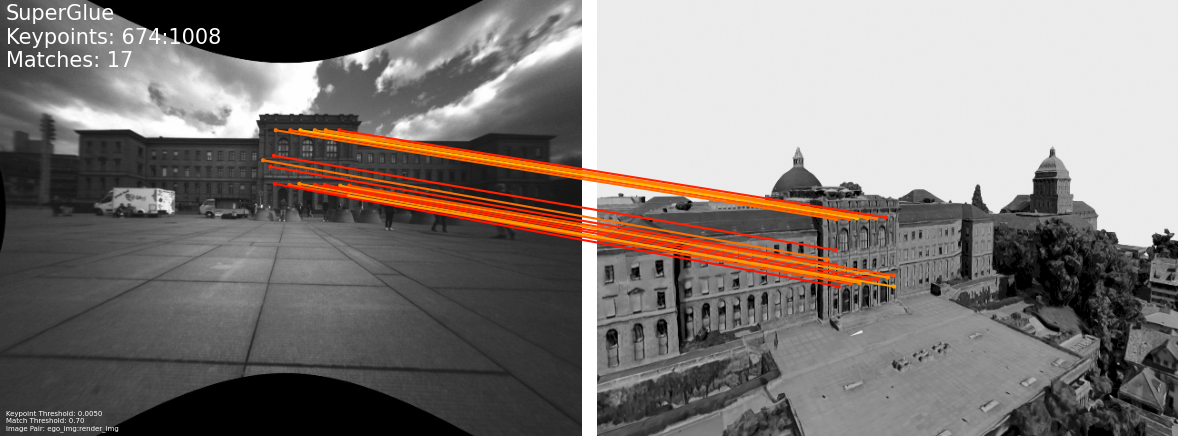
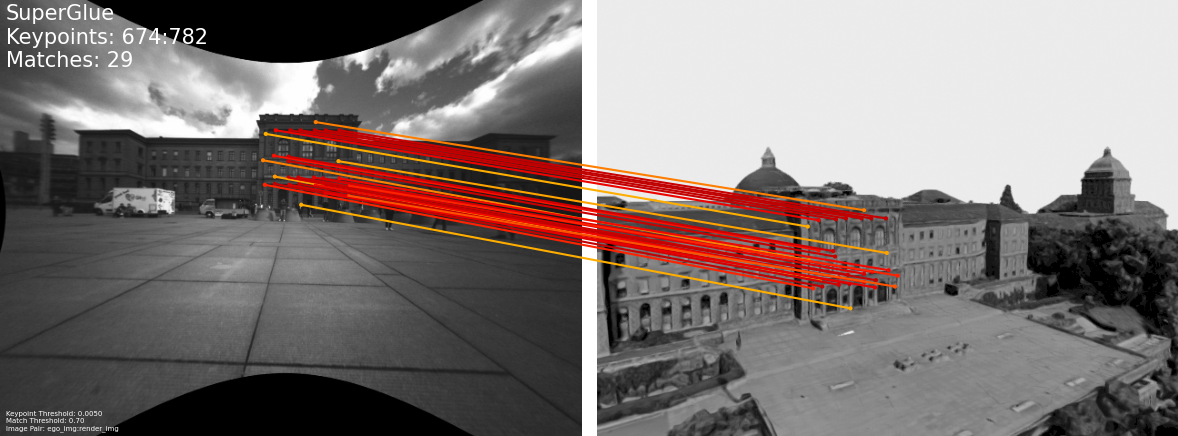
coord transform fix, PnP implement (not correct yet though)

diff --git a/where_am_i.py b/where_am_i.py
@@ -13,7 +13,7 @@ from SuperGluePretrainedNetwork.superglue_pairs import get_matching_points
 
 import cv2
 def render_RGBBXYZ(render_position, render_lookat, render_up=[0,0,1]):
-    img_width, img_height = 1920, 1080
+    img_width, img_height = 640, 480
     render = rendering.OffscreenRenderer(img_width, img_height)
     model_path = os.path.expanduser("~")+"/Documents/models3D/obj/ETHmodel.obj"
     model = o3d.io.read_triangle_model(model_path)
@@ -83,61 +83,33 @@ def render_RGBBXYZ(render_position, render_lookat, render_up=[0,0,1]):
 
     xyz_camera = np.stack([x3, y3, z3], axis=2)
 
-    # stack the XYZ coordinates and onto the RGB image
-    cimg = np.array(cimg)
-    RBGXYZ_img = np.hstack([cimg, xyz_camera])
-
-    # print("Saving image at test2.png")
-    # # dimg = np.array(dimg)
-    # dimg = np.where(dimg == np.inf, 0, dimg)
-    # dimg = dimg / np.max(dimg) * 255
-    # cv2.imwrite("test2.png", dimg)
-
-    #plot 3d point cloud
-    xyz_camera = xyz_camera.reshape(-1, 3)
-    xyz_camera = xyz_camera[xyz_camera[:, 2] != 0]
-    xyz_camera = xyz_camera[xyz_camera[:, 2] != np.inf]
-
-    
-    plt.figure(1)
-    ax = plt.axes(projection='3d')
-    ax.scatter(xyz_camera[:, 0], xyz_camera[:, 1], xyz_camera[:, 2], c=xyz_camera[:, 2], cmap='viridis')
-    ax.set_xlabel('X')
-    ax.set_ylabel('Y')
-    ax.set_zlabel('Z')
-    #equal axis scaling
-    ax.set_aspect('equal', 'box')
-
-    #convert back to world coordinates
-    xyz_camera = np.hstack([xyz_camera, np.ones((xyz_camera.shape[0], 1))])
-    xyz_world = np.linalg.inv(Rt_cs) @ xyz_camera.T
-    xyz_world = xyz_world.T[:, :3]
-
-    plt.figure(2)
-    ax = plt.axes(projection='3d')
-    ax.scatter(xyz_world[:, 0], xyz_world[:, 1], xyz_world[:, 2], c=xyz_world[:, 2], cmap='viridis')
-    ax.set_xlabel('X')
-    ax.set_ylabel('Y')
-    ax.set_zlabel('Z')
-    #equal axis scaling
-    ax.set_aspect('equal', 'box')
-    
-    # plt.show()
-
+    # convert to world coordinates
+    xyz_world = xyz_camera @ np.linalg.inv(Rt_cs[:3, :3]).T + Rt_cs[:3, 3]
+  
+    RBGXYZ_img = np.dstack([cimg, xyz_world])
     return RBGXYZ_img
 
 
-
+def get_pose(match_3d_pts, match_2d_pts, camera_intrinsics):
+    #use PnP to get pose
+    retval, rvec, tvec, inliers = cv2.solvePnPRansac(match_3d_pts, match_2d_pts, camera_intrinsics, None)
+    print("retval: ", retval)
+    print("rvec: ", rvec)
+    print("tvec: ", tvec)
+    return retval, rvec, tvec, inliers
+    
 
 
 if __name__ == "__main__":
-
+    pts = np.load('img_pairs/ego_img_render_img_matches.npz')
+    
     start = time.time()
     # #get ros imgs and candidate positions
-    ros_data = RosData()
+    ros_data = RosData(prod=False)
     timestamp=1679918012.472778
     egocentric_imgs = ros_data.get_ego_imgs(timestamp)
     candidate_position = ros_data.get_candidate_position(timestamp)
+    camera_intrinsics = ros_data.get_camera_intrinsics()
     #save ego img
     cv2.imwrite('render_imgs/ego_img.png', egocentric_imgs)
 
@@ -147,11 +119,29 @@ if __name__ == "__main__":
     img_and_points = render_RGBBXYZ(render_position, render_lookat)
 
     # #get matching points
-    matching_points = get_matching_points(img_and_points, egocentric_imgs)
+    mkpts0, mkpts1, mconf = get_matching_points(img_and_points, egocentric_imgs)
 
-    # #get pose with PnP
-    # pose = get_pose(matching_points)
+    #get 3d points of mkpts1 from img_and_points
+    all_3d_pts = img_and_points[:, :, 3:]
+    match_3d_pts = np.array([all_3d_pts[int(mkpt[1]), int(mkpt[0])] for mkpt in mkpts1])
+
+    plt.figure(3)
+    ax = plt.axes(projection='3d')
+    ax.scatter(match_3d_pts[:, 0], match_3d_pts[:, 1], match_3d_pts[:, 2], c=np.array(mconf), cmap='viridis')
+    ax.set_xlabel('X')
+    ax.set_ylabel('Y')
+    ax.set_zlabel('Z')
+    #equal axis scaling
+    ax.set_aspect('equal', 'box')
+
+    #get pose with PnP
+    pose = get_pose(match_3d_pts, mkpts0, camera_intrinsics)
+
+    ax.scatter(pose[2][0], pose[2][1], pose[2][2], c='r', marker='o')
 
 
-    end = time.time()
-    print("Time to run main(): ", end-start)
+    #set view
+    # ax.view_init(elev=0, azim=np.pi/2)
+    #save figure
+    plt.savefig('render_imgs/3d_pts.png')
+    

diff --git a/ros_data.py b/ros_data.py
@@ -6,20 +6,22 @@ import numpy as np
 
 class RosData:
 
-    def __init__(self):
+    def __init__(self, prod=False):
         rosbag_folder = './ros_anymal/ETH_Cerberus_localization/'
         sub_folder ='jetson/' 
         bag_name = '2023-03-27-13-48-57_anymal-cerberus-jetson_mission_5.bag'
 
         sub_folder = 'Processed_bag/' 
         bag_name =  'mergedBag.bag'
-
-        # self.bag = rosbag.Bag(rosbag_folder + sub_folder + bag_name)
+        
 
         self.camera_topics = ['/alphasense_driver_ros/cam3/color_rect/image/compressed', 
                               '/alphasense_driver_ros/cam4/color_rect/image/compressed', 
                               '/alphasense_driver_ros/cam5/color_rect/image/compressed', 
-                                ]
+                             ]
+        self.prod = prod
+        if self.prod:                        
+            self.bag = rosbag.Bag(rosbag_folder + sub_folder + bag_name)
         
     # def generate_imgs(self):
 
@@ -51,9 +53,19 @@ class RosData:
 
     def get_candidate_position(self,timestamp):
         return np.array([-7, 2, 0.5], dtype=np.float32)
+    
+    def get_camera_intrinsics(self):
+        if not self.prod:
+            return np.array([377.1323930964233, 0.0, 704.90459865174, 
+                            0.0, 376.76480664462014, 523.3273863186171, 
+                            0.0, 0.0, 1.0]).reshape(3,3)
+        msgs = self.bag.read_messages(topics=['/alphasense_driver_ros/cam4/color_rect/camera_info'])
+        # read the K matrix from first message header
+        for topic, msg, t in msgs:
+            instrinsics = msg.message.K
+            break
+        return instrinsics
          
         
-
-
 if __name__ == "__main__":
-    RosData().generate_imgs()
+    RosData().get_camera_intrinsics()
